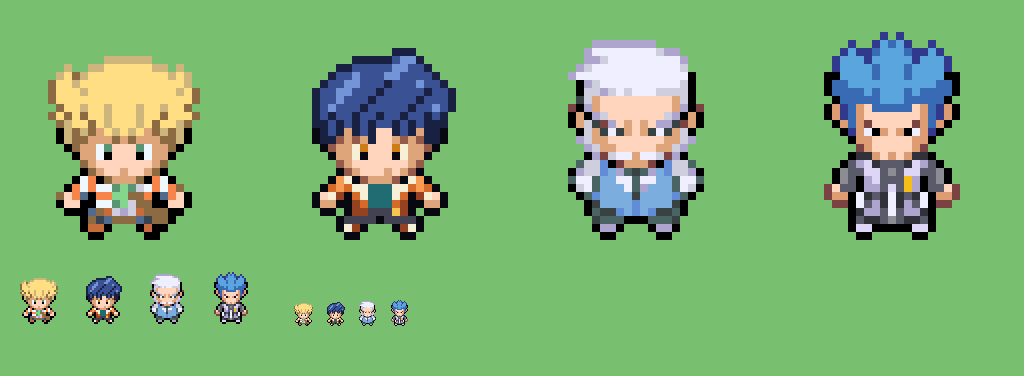
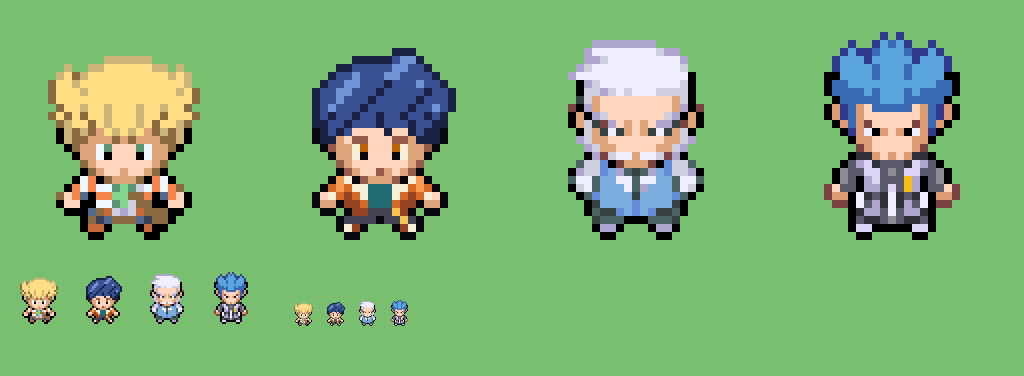
Garius key frame: open forehead, brows, watch chain, softer sleeve gaps
Claude-Session: https://claude.ai/code/session_01R78qiwB9QFmdVUsfyXJHwi

diff --git a/tools/garius_sprite/garius.py b/tools/garius_sprite/garius.py
@@ -48,7 +48,7 @@ PALETTE = [
     (33, 107, 115),   # 12 t teal shirt
     (66, 66, 82),     # 13 c charcoal
     (247, 198, 82),   # 14 g brass
-    (206, 123, 24),   # 15 e amber
+    (189, 99, 8),    # 15 e amber
 ]
 
 LEGEND = {
@@ -69,19 +69,19 @@ FRONT = """
 |.HhhihhhHhhhhhHhhhH.|
 |.HhihhhHhhhhhHhhihH.|
 |.HhHhhHhhHhhHhhHhH..|
-|.HHhHhHhHhhHhHhHHH..|
-|.KHhHsHhHaaHhHsHHK..|
-|.KHHSsSsHaasSsSHHK..|
+|.HHhhHhhhHhhhHhhHH..|
+|.KHhHhaaaaHaaHhHHK..|
+|.KHHsaSSaaaSSsHHHK..|
 |..KSssweaaaewssSK...|
 |...KsswKaaaKwssK....|
 |....SsaaaaaaasS.....|
-|....KSsaaasasSK.....|
+|....KSsaaSsasSK.....|
 |...KpwKSsssSKwpK....|
 |..KopowwtttwwopoK...|
-|.KawOKowtttwoKOwaK..|
-|.KssKKOotttoOKKssK..|
+|.KawoOowtttwoOowaK..|
+|.KssKOOotttoOOKssK..|
 |..KK.KOOcccgOK.KK...|
-|....KccccKccccK.....|
+|....KccccKccgcK.....|
 |....KwOK...KOwK.....|
 |.....KK.....KK......|
 """
